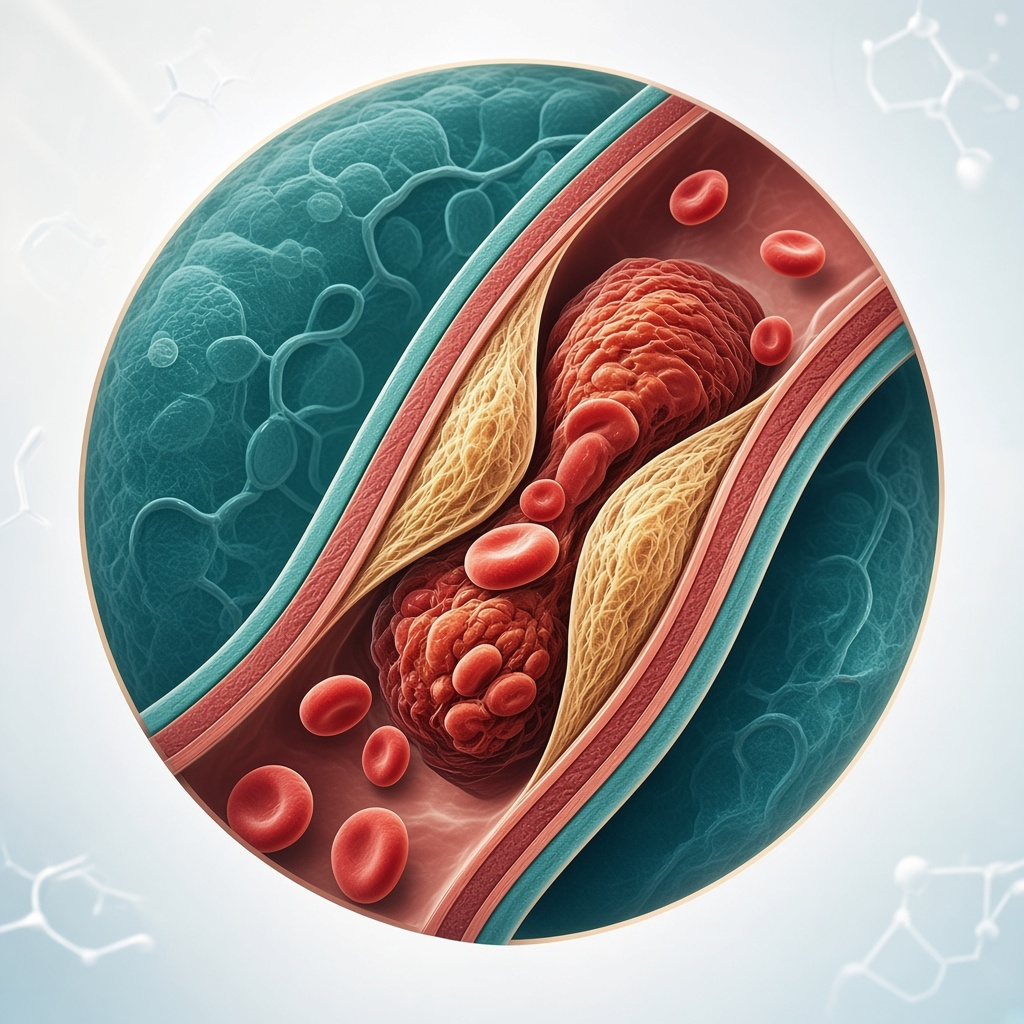
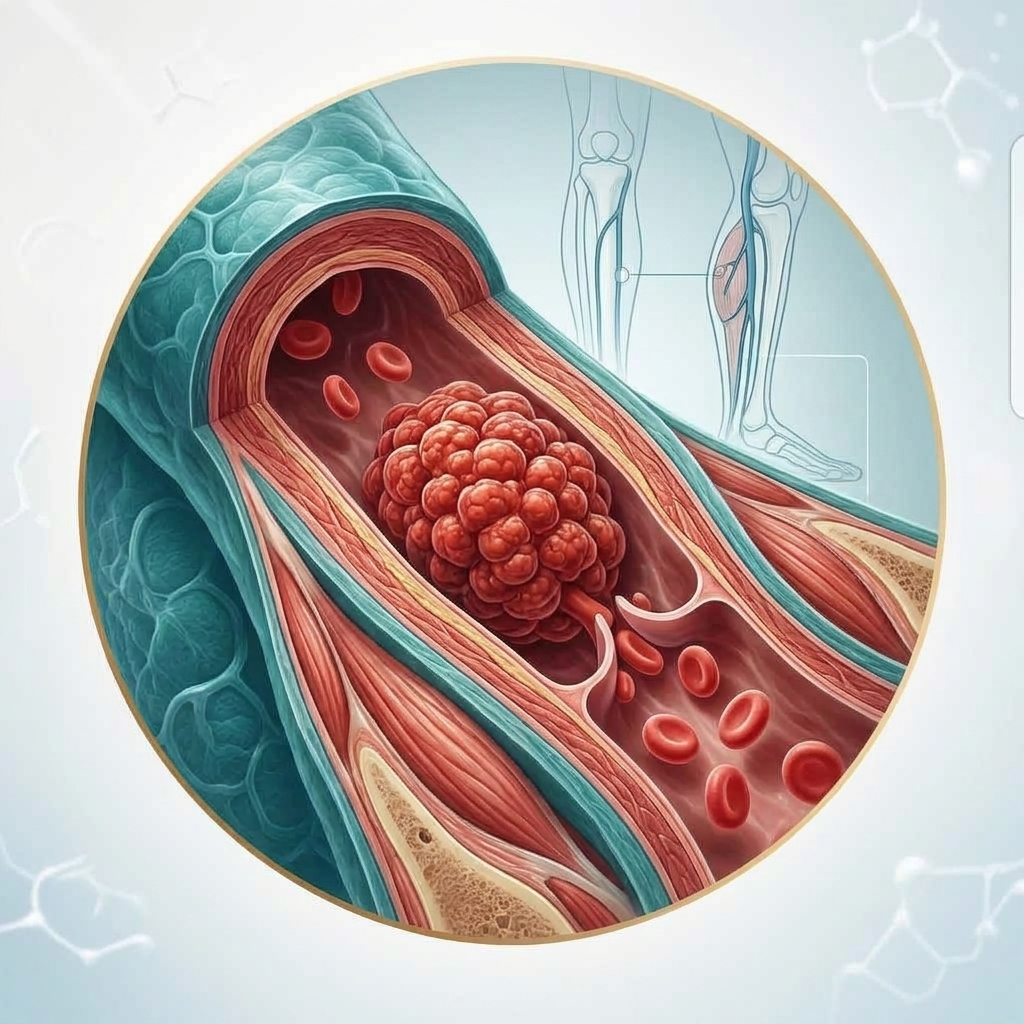
cambios

diff --git a/components/cards/PathologyCard.tsx b/components/cards/PathologyCard.tsx
@@ -6,7 +6,10 @@ import { PathologyImageViewer } from "@/components/pathologies/PathologyImageVie
 import type { Patologia } from "@/types";
 
 export function PathologyCard({ patologia }: { patologia: Patologia }) {
-  const illustration = `/images/patologias/${patologia.id}.png`;
+  const illustration =
+    patologia.id === "trombosis-venosa-profunda"
+      ? "/images/patologias/trombosis-venosa-profunda-card.png"
+      : `/images/patologias/${patologia.id}.png`;
   const illustrationAlt = `Ilustracion educativa de ${patologia.nombre}`;
 
   return (
